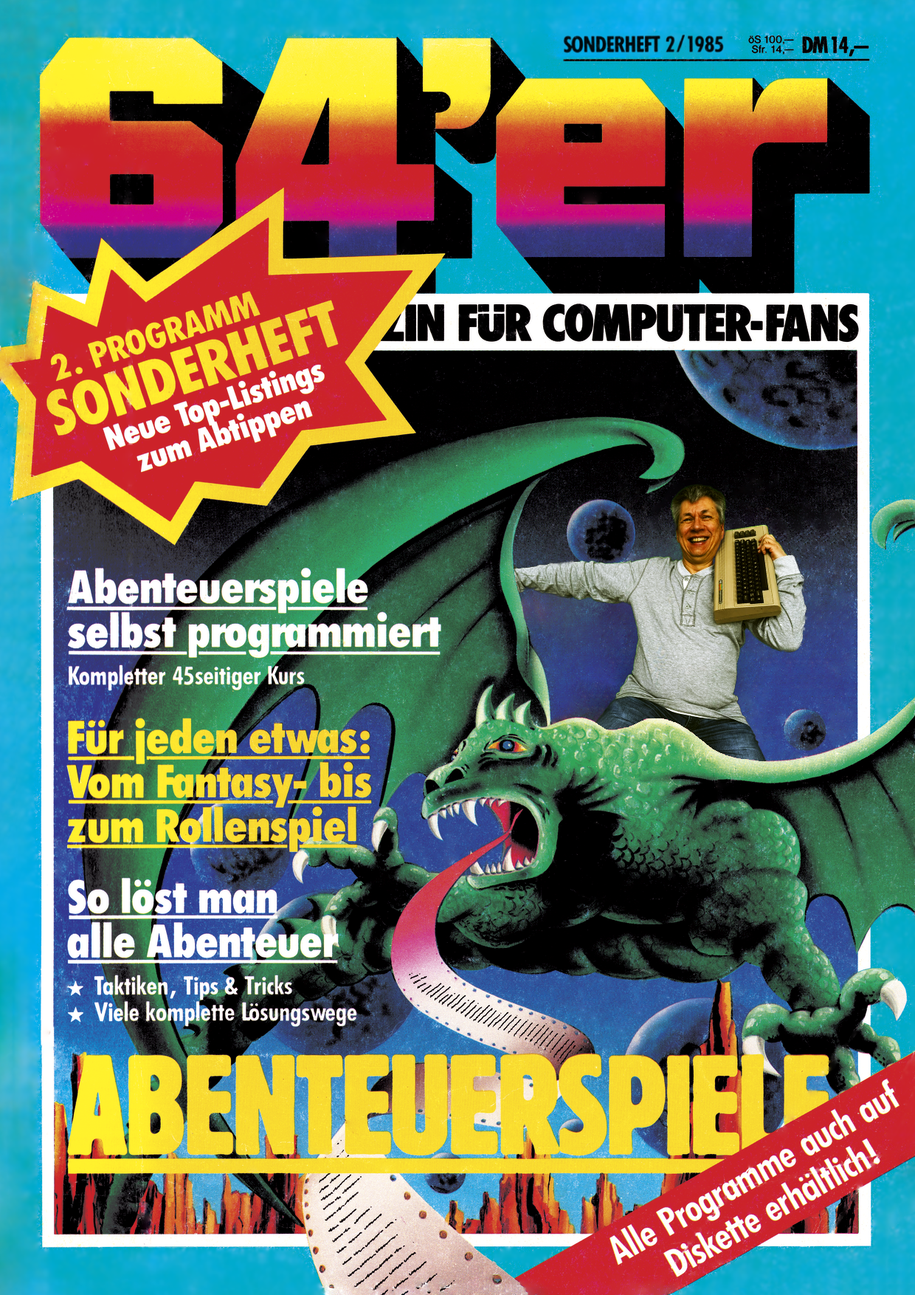
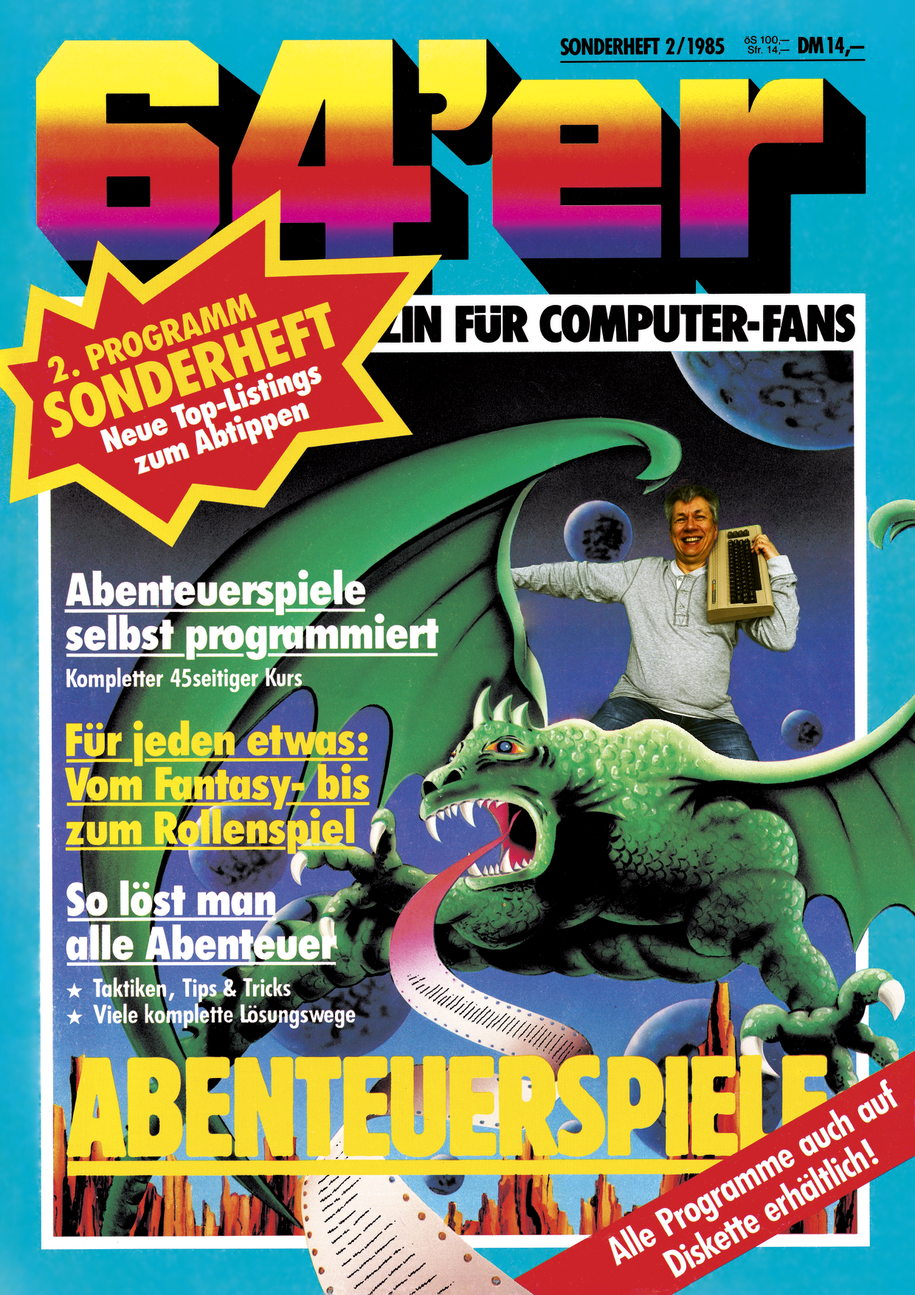
SH8502: updated "modernized" title.png based on better scan

diff --git a/README.md b/README.md
@@ -193,6 +193,8 @@ Die Eingabe-Ausgaben werden aus `issues` gelesen, die Website wird nach `out` ge
 * Sonderheft 2/1985:
     * Zeitschrift zum Scannen geliehen
         * [pgeorgi](https://www.forum64.de/wcf/index.php?user/28405-pgeorgi/)
+    * Umschlag (inkl. Titelbild) zum Scannen geliehen
+        * [docbobo](https://www.forum64.de/wcf/index.php?user/26944-docbobo/)
     * OCR
         * [Drachen](https://www.forum64.de/wcf/index.php?user/9125-drachen/)
 
